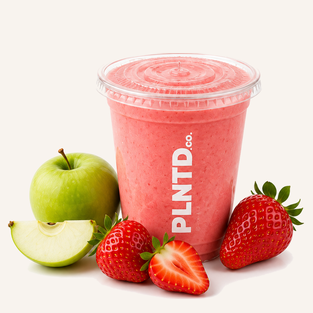
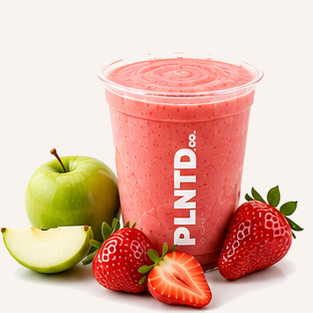
Menu: revert juice + smoothie images to previous versions (keep new sandwiches + focaccia)

Changed region(s): [[0.0, 0.1438, 0.9776, 1.0], [0.4313, 0.6326, 0.4601, 0.6613], [0.4313, 0.5751, 0.4601, 0.6038]]

diff --git a/data.js b/data.js
@@ -8,17 +8,17 @@ window.MENU = [
     eyebrow: '',
     blurb: 'Thick, fruit-forward blends. All smoothies include coconut water.',
     items: [
-      { name: 'Green Glow',         ingr: 'apple, spinach, avocado, broccoli, lemon, coconut water', price: 6.50, color: '#3E7A1E', img: 'assets/drinks/smoothie-green-glow.png?v=20260710',
+      { name: 'Green Glow',         ingr: 'apple, spinach, avocado, broccoli, lemon, coconut water', price: 6.50, color: '#3E7A1E', img: 'assets/drinks/smoothie-green-glow.png?v=6',
         allergens: ['Coconut'], nutrition: { kj: 720, kcal: 172, fat: 8, satFat: 1.2, carbs: 18, sugars: 12, fibre: 5, protein: 3, sodium: 25 } },
-      { name: 'Green Machine',      ingr: 'kale, spinach, cucumber, apple, ginger, lemon, coconut water', price: 6.50, color: '#3E7A1E', img: 'assets/drinks/smoothie-green-machine.png?v=20260710',
+      { name: 'Green Machine',      ingr: 'kale, spinach, cucumber, apple, ginger, lemon, coconut water', price: 6.50, color: '#3E7A1E', img: 'assets/drinks/smoothie-green-machine.png?v=6',
         allergens: ['Coconut'], nutrition: { kj: 380, kcal: 90, fat: 0.6, satFat: 0.1, carbs: 22, sugars: 14, fibre: 4, protein: 2, sodium: 35 } },
-      { name: 'Pineapple Sunrise',  ingr: 'pineapple, banana, apple, coconut water', price: 6.50, color: '#DF9A00', img: 'assets/drinks/smoothie-pineapple-sunrise.png?v=20260710',
+      { name: 'Pineapple Sunrise',  ingr: 'pineapple, banana, apple, coconut water', price: 6.50, color: '#DF9A00', img: 'assets/drinks/smoothie-pineapple-sunrise.png?v=6',
         allergens: ['Coconut'], nutrition: { kj: 760, kcal: 180, fat: 0.6, satFat: 0.1, carbs: 44, sugars: 32, fibre: 4, protein: 2, sodium: 10 } },
-      { name: 'Blueberry Breeze',   ingr: 'blueberries, banana, almond milk', price: 6.50, color: '#2E0096', img: 'assets/drinks/smoothie-blueberry-breeze.png?v=20260710',
+      { name: 'Blueberry Breeze',   ingr: 'blueberries, banana, almond milk', price: 6.50, color: '#2E0096', img: 'assets/drinks/smoothie-blueberry-breeze.png?v=6',
         allergens: ['Tree nuts (almond)'], nutrition: { kj: 840, kcal: 200, fat: 4, satFat: 0.3, carbs: 39, sugars: 28, fibre: 4, protein: 3, sodium: 70 } },
-      { name: 'Strawberry Delight', ingr: 'strawberries, apple, coconut water', price: 6.50, color: '#C1002F', img: 'assets/drinks/smoothie-strawberry-delight.png?v=20260710',
+      { name: 'Strawberry Delight', ingr: 'strawberries, apple, coconut water', price: 6.50, color: '#C1002F', img: 'assets/drinks/smoothie-strawberry-delight.png?v=6',
         allergens: ['Coconut'], nutrition: { kj: 460, kcal: 110, fat: 0.4, satFat: 0.1, carbs: 27, sugars: 20, fibre: 5, protein: 1, sodium: 8 } },
-      { name: 'Berry Blast',        ingr: 'strawberries, banana, apple, coconut water', price: 6.50, color: '#CA0039', img: 'assets/drinks/smoothie-berry-blast.png?v=20260710',
+      { name: 'Berry Blast',        ingr: 'strawberries, banana, apple, coconut water', price: 6.50, color: '#CA0039', img: 'assets/drinks/smoothie-berry-blast.png?v=6',
         allergens: ['Coconut'], nutrition: { kj: 670, kcal: 160, fat: 0.5, satFat: 0.1, carbs: 39, sugars: 27, fibre: 5, protein: 2, sodium: 8 } },
     ],
   },
@@ -28,23 +28,23 @@ window.MENU = [
     eyebrow: '',
     blurb: 'Pressed in-store every morning. Nothing from concentrate.',
     items: [
-      { name: 'Garden Green',      ingr: 'cucumber, celery, kale', price: 6.00, color: '#3E7A1E', img: 'assets/drinks/juice-garden-green.png?v=20260710',
+      { name: 'Garden Green',      ingr: 'cucumber, celery, kale', price: 6.00, color: '#3E7A1E', img: 'assets/drinks/juice-garden-green.png?v=6',
         allergens: [], nutrition: { kj: 210, kcal: 50, fat: 0.3, satFat: 0, carbs: 11, sugars: 6, fibre: 2, protein: 2, sodium: 30 }, noAddedSugar: true },
-      { name: 'Carrot Glow',       ingr: 'carrot, apple, ginger', price: 6.00, color: '#CA3D00', img: 'assets/drinks/juice-carrot-glow.png?v=20260710',
+      { name: 'Carrot Glow',       ingr: 'carrot, apple, ginger', price: 6.00, color: '#CA3D00', img: 'assets/drinks/juice-carrot-glow.png?v=9',
         allergens: [], nutrition: { kj: 460, kcal: 110, fat: 0.3, satFat: 0, carbs: 26, sugars: 20, fibre: 3, protein: 1, sodium: 35 }, noAddedSugar: true },
-      { name: 'Sunrise Carrot',    ingr: 'carrot, orange, lemon', price: 6.00, color: '#CA3D00', img: 'assets/drinks/juice-sunrise-carrot.png?v=20260710',
+      { name: 'Sunrise Carrot',    ingr: 'carrot, orange, lemon', price: 6.00, color: '#CA3D00', img: 'assets/drinks/juice-sunrise-carrot.png?v=9',
         allergens: [], nutrition: { kj: 550, kcal: 130, fat: 0.3, satFat: 0, carbs: 31, sugars: 25, fibre: 4, protein: 2, sodium: 30 }, noAddedSugar: true },
-      { name: 'Daily Cleanse',     ingr: 'apple, carrot, ginger', price: 6.00, color: '#3E7A1E', img: 'assets/drinks/juice-daily-cleanse.png?v=20260710',
+      { name: 'Daily Cleanse',     ingr: 'apple, carrot, ginger', price: 6.00, color: '#3E7A1E', img: 'assets/drinks/juice-daily-cleanse.png?v=7',
         allergens: [], nutrition: { kj: 630, kcal: 150, fat: 0.4, satFat: 0, carbs: 37, sugars: 30, fibre: 4, protein: 1, sodium: 12 }, noAddedSugar: true },
-      { name: 'Citrus Refresher',  ingr: 'apple, mint, ginger, lemon', price: 6.00, color: '#DF9A00', img: 'assets/drinks/juice-citrus-refresher.png?v=20260710',
+      { name: 'Citrus Refresher',  ingr: 'apple, mint, ginger, lemon', price: 6.00, color: '#DF9A00', img: 'assets/drinks/juice-citrus-refresher.png?v=6',
         allergens: [], nutrition: { kj: 590, kcal: 140, fat: 0.3, satFat: 0, carbs: 35, sugars: 28, fibre: 3, protein: 0, sodium: 5 }, noAddedSugar: true },
-      { name: 'Apple Zing',        ingr: 'apple, mint, ginger', price: 6.00, color: '#3E7A1E', img: 'assets/drinks/juice-apple-zing.png?v=20260710',
+      { name: 'Apple Zing',        ingr: 'apple, mint, ginger', price: 6.00, color: '#3E7A1E', img: 'assets/drinks/juice-apple-zing.png?v=6',
         allergens: [], nutrition: { kj: 590, kcal: 140, fat: 0.3, satFat: 0, carbs: 35, sugars: 28, fibre: 3, protein: 0, sodium: 5 }, noAddedSugar: true },
-      { name: 'Citrus Boost',      ingr: 'orange, lemon, carrot', price: 6.00, color: '#DF9A00', img: 'assets/drinks/juice-citrus-boost.png?v=20260710',
+      { name: 'Citrus Boost',      ingr: 'orange, lemon, carrot', price: 6.00, color: '#DF9A00', img: 'assets/drinks/juice-citrus-boost.png?v=10',
         allergens: [], nutrition: { kj: 550, kcal: 130, fat: 0.3, satFat: 0, carbs: 31, sugars: 25, fibre: 4, protein: 2, sodium: 25 }, noAddedSugar: true },
-      { name: 'Vitamin C Blast',   ingr: 'orange, pineapple, lemon', price: 6.00, color: '#DF9A00', img: 'assets/drinks/juice-vitamin-c-blast.png?v=20260710',
+      { name: 'Vitamin C Blast',   ingr: 'orange, pineapple, lemon', price: 6.00, color: '#DF9A00', img: 'assets/drinks/juice-vitamin-c-blast.png?v=6',
         allergens: [], nutrition: { kj: 710, kcal: 170, fat: 0.4, satFat: 0, carbs: 41, sugars: 35, fibre: 4, protein: 2, sodium: 8 }, noAddedSugar: true },
-      { name: 'Berry Fresh',       ingr: 'strawberries, apple, lemon', price: 6.00, color: '#C1002F', img: 'assets/drinks/juice-berry-fresh.png?v=20260710',
+      { name: 'Berry Fresh',       ingr: 'strawberries, apple, lemon', price: 6.00, color: '#C1002F', img: 'assets/drinks/juice-berry-fresh.png?v=6',
         allergens: [], nutrition: { kj: 420, kcal: 100, fat: 0.3, satFat: 0, carbs: 24, sugars: 18, fibre: 3, protein: 1, sodium: 5 }, noAddedSugar: true },
     ],
   },
